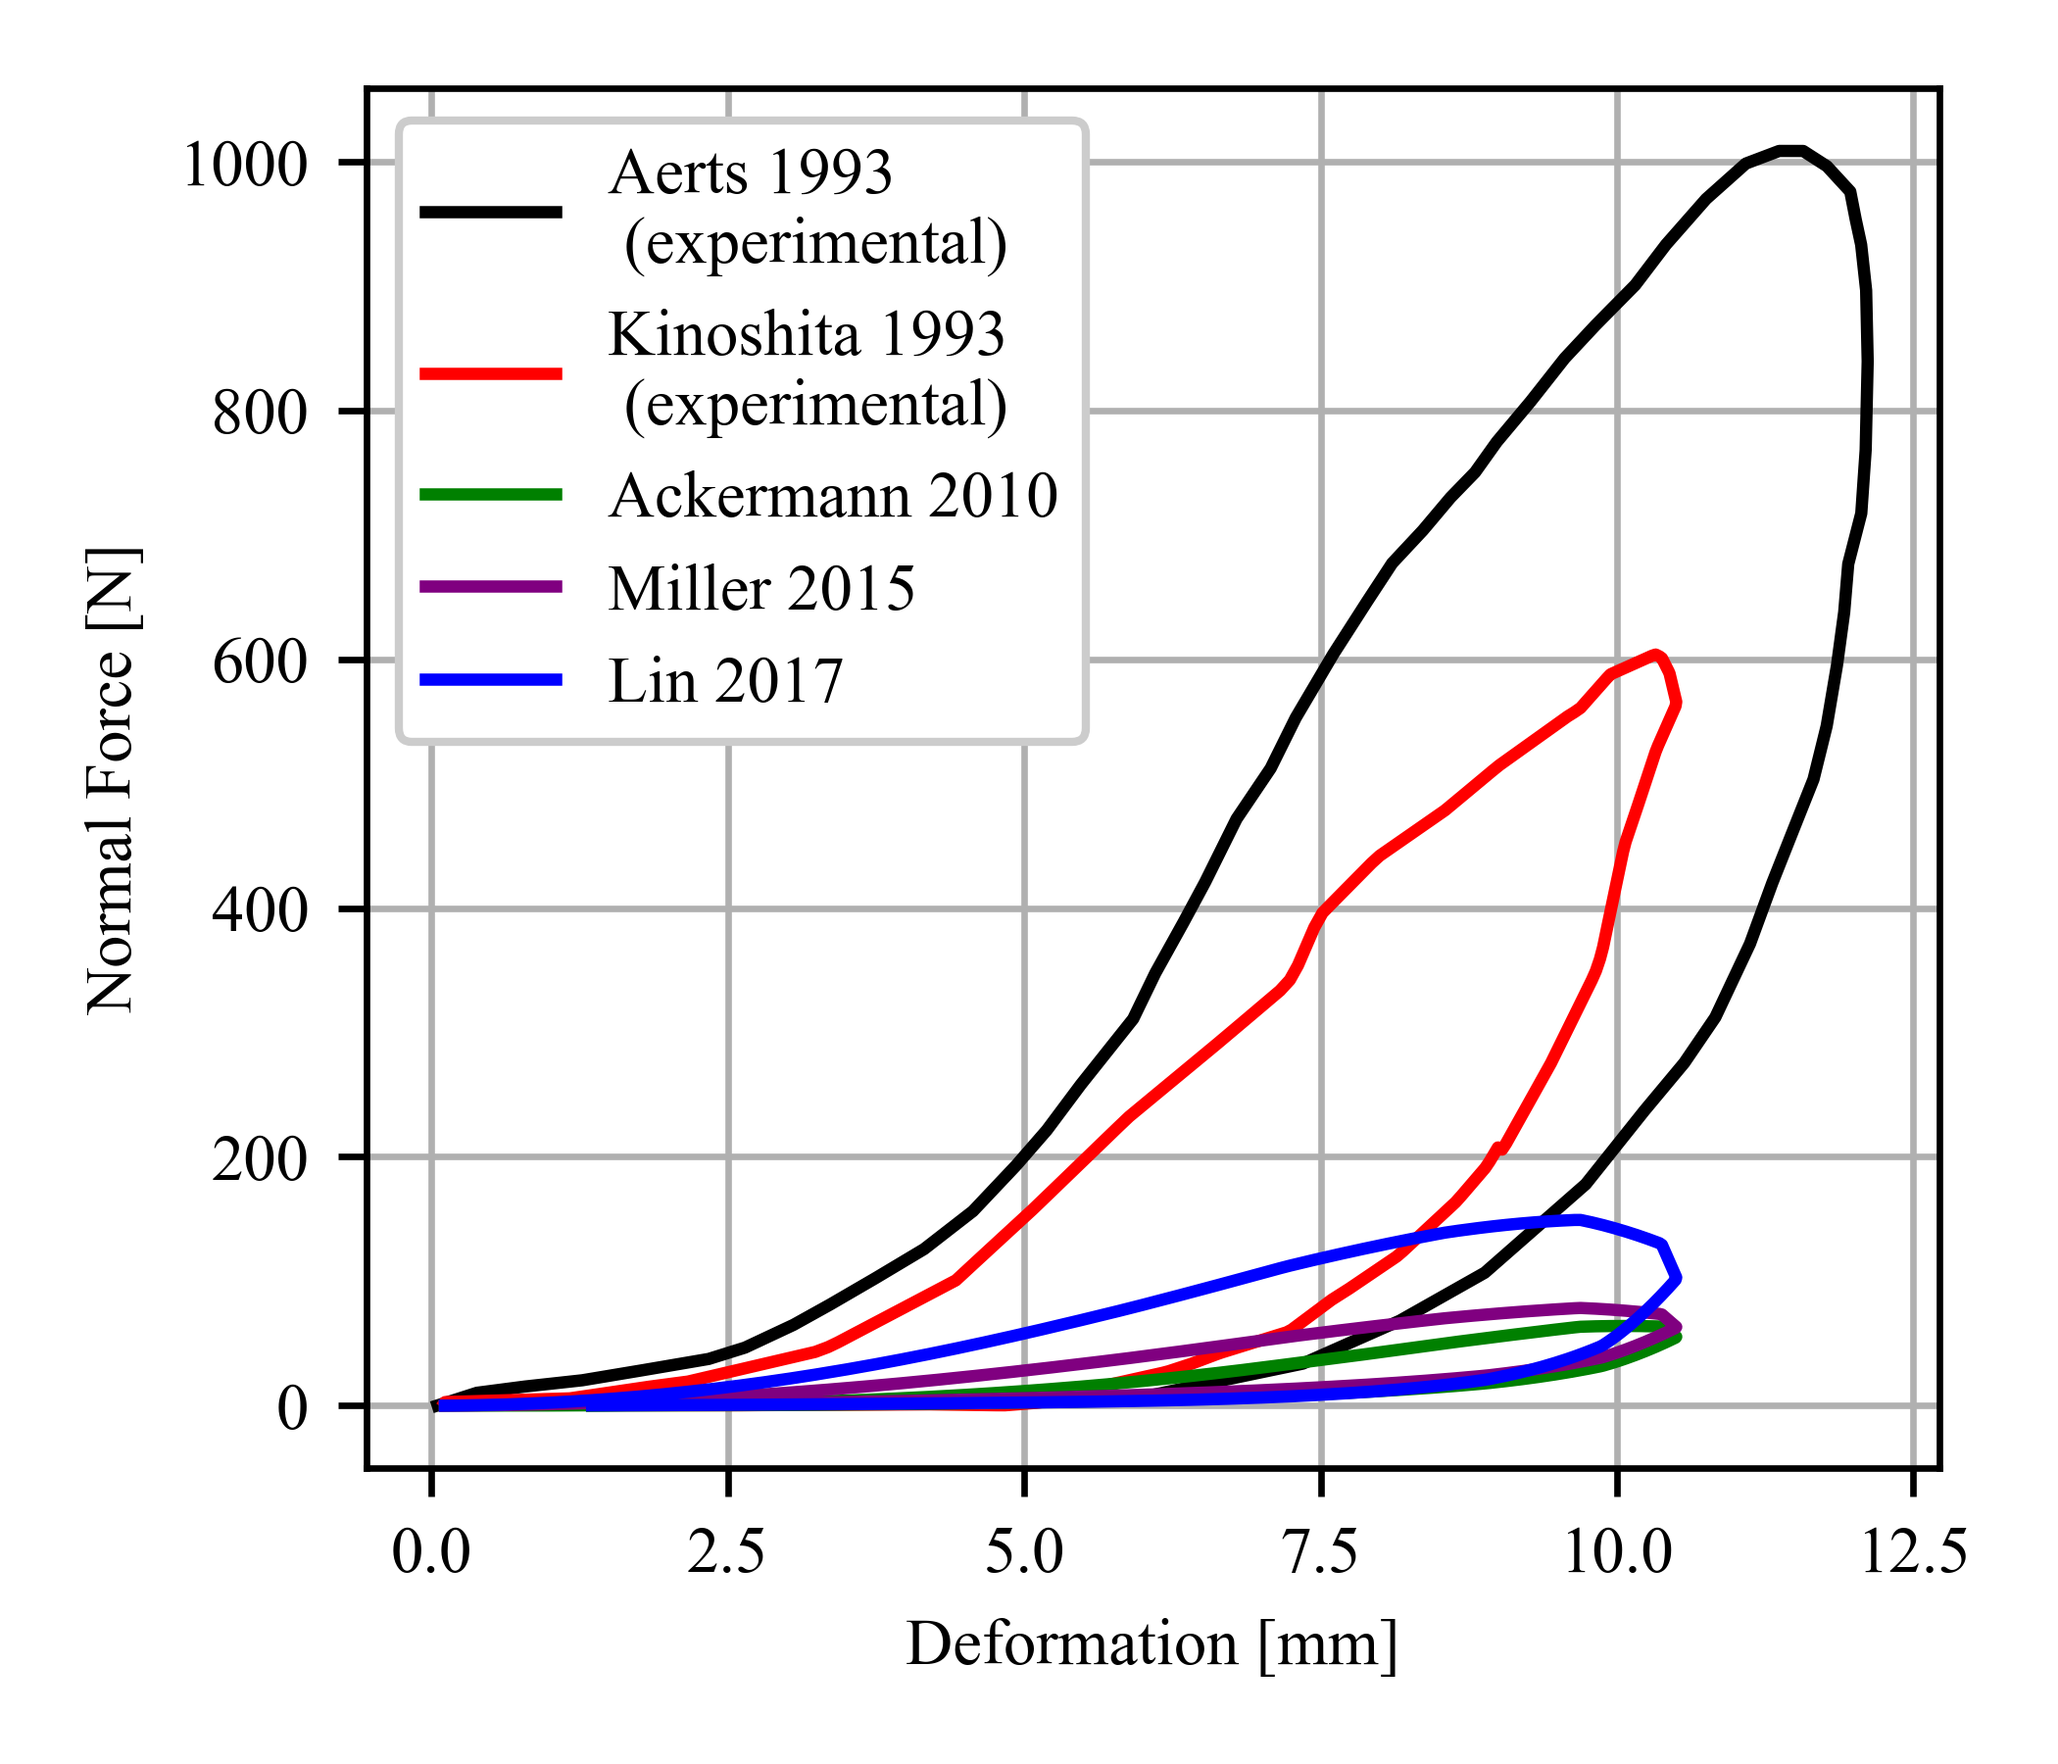
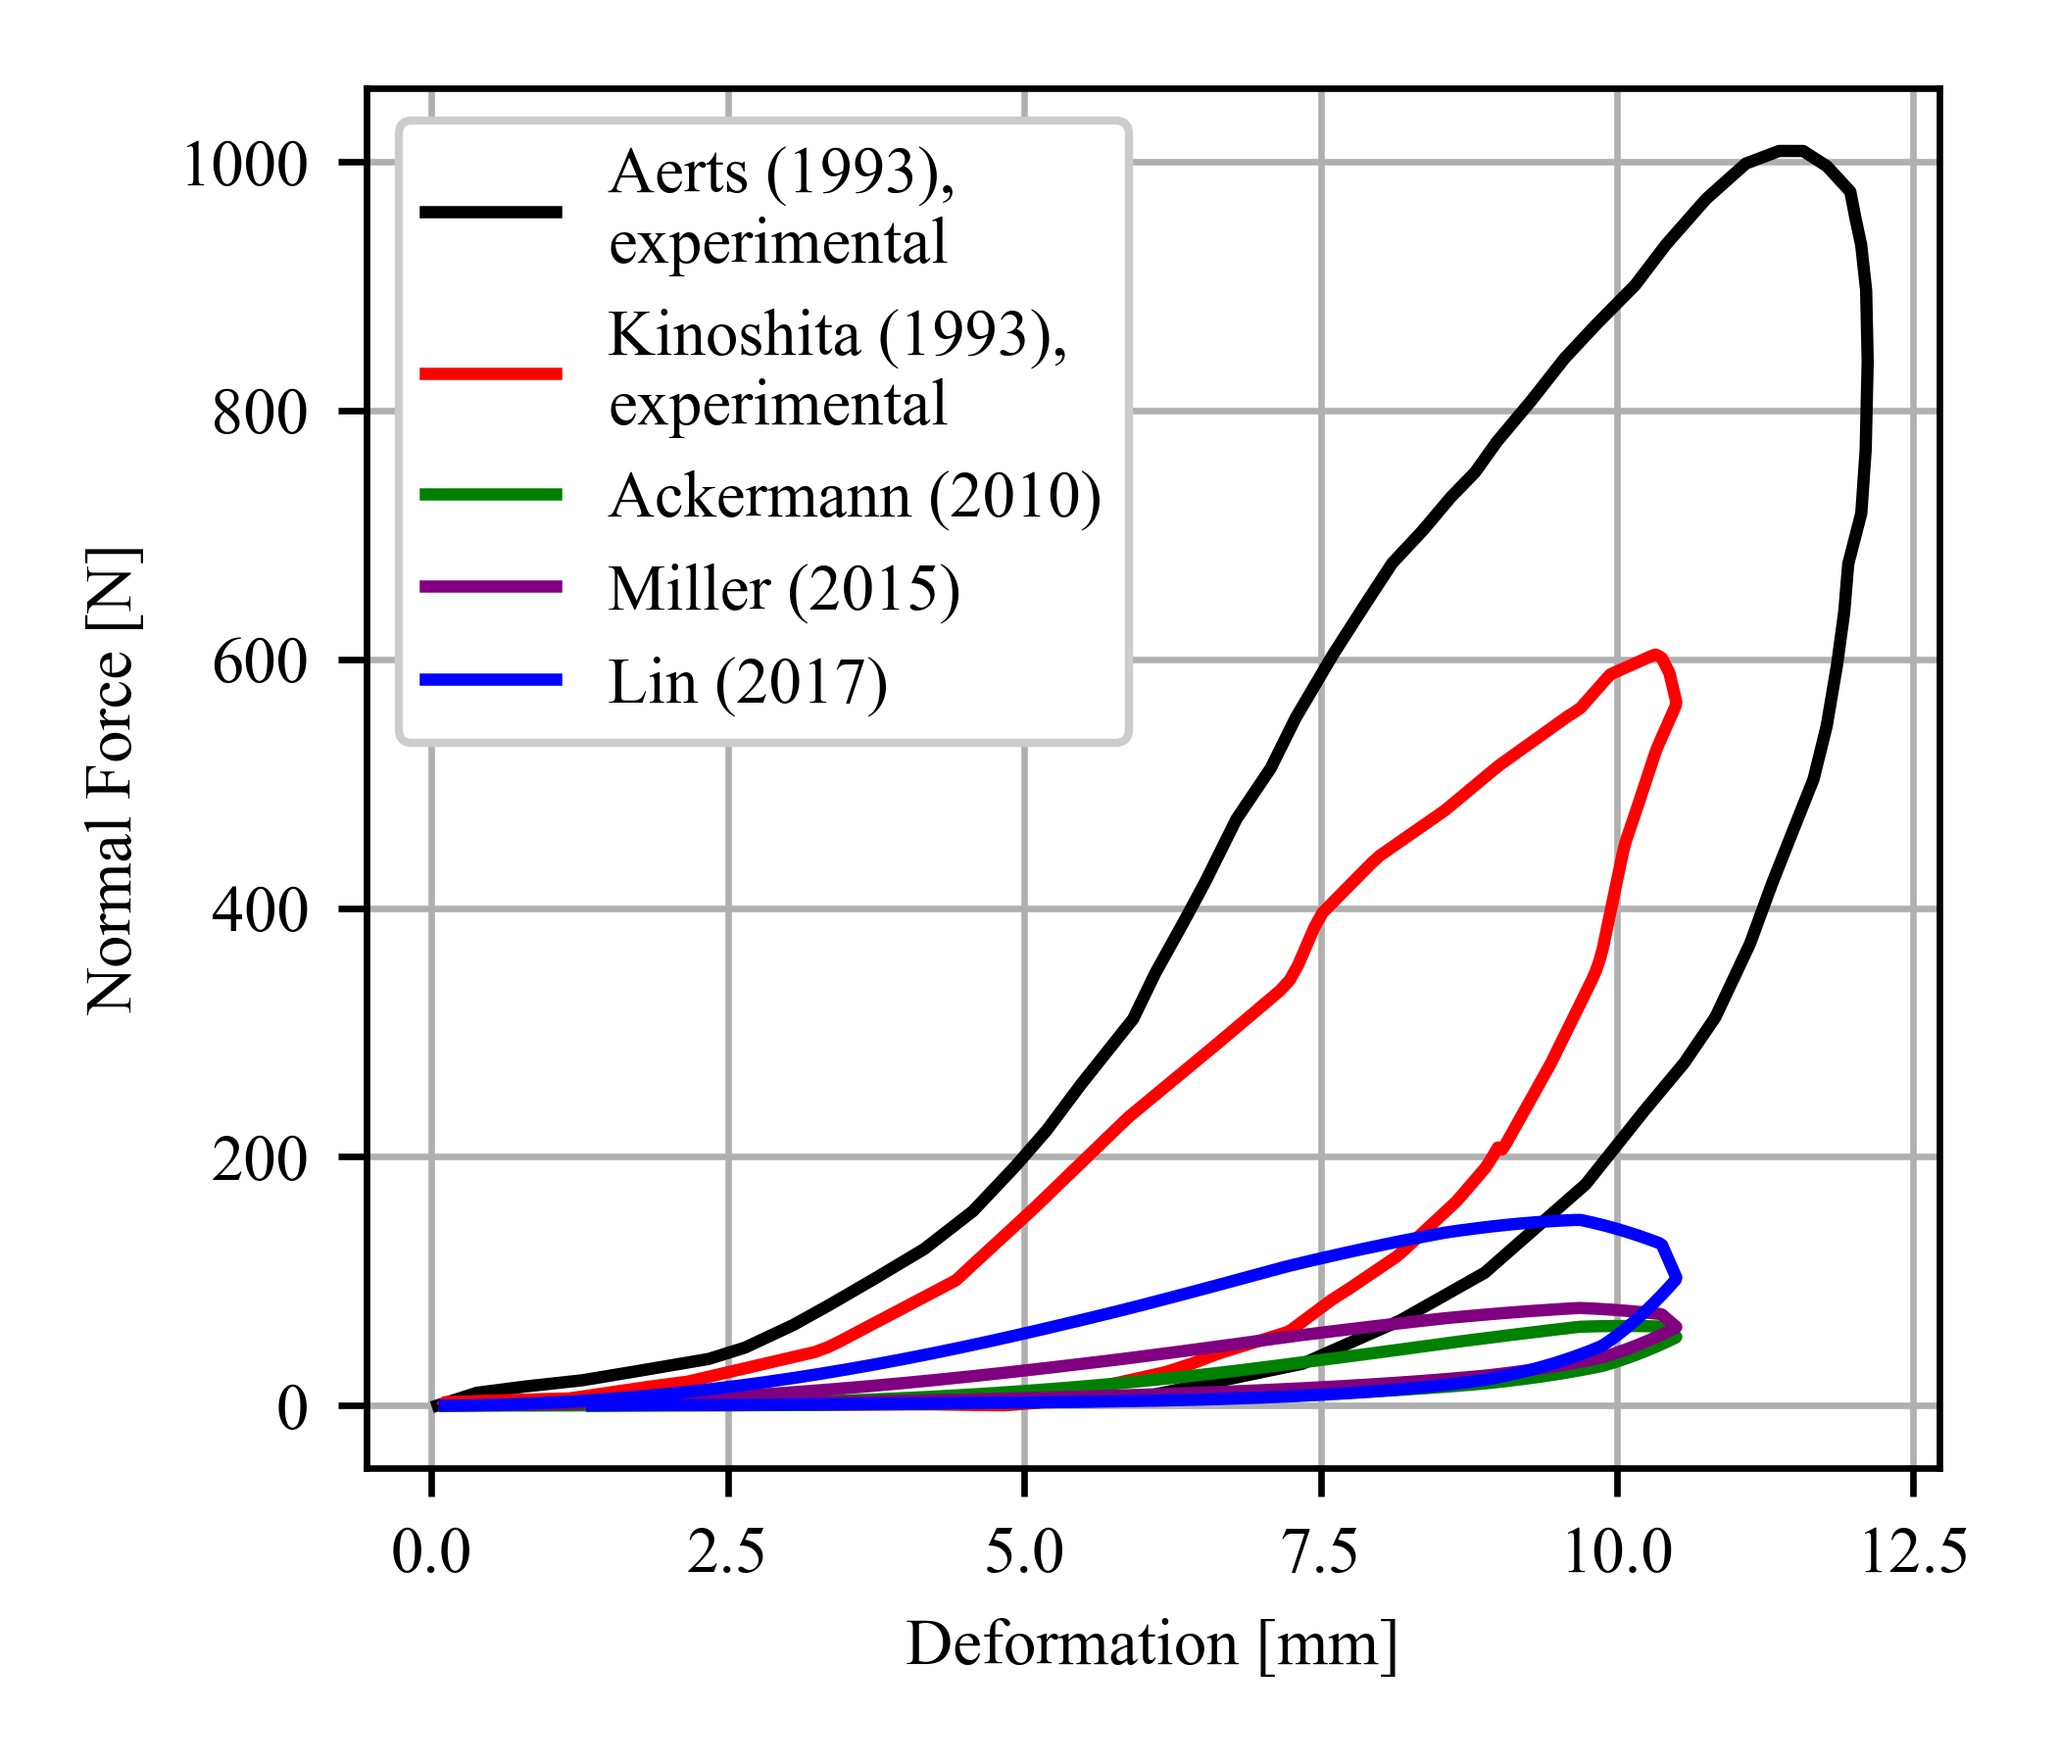
added exponent selection

Changed region(s): [[0.2786, 0.0622, 0.5571, 0.4356], [0.3714, 0.3111, 0.4643, 0.3422], [0.3405, 0.3733, 0.4333, 0.4044]]

diff --git a/exponent_fixed.py b/exponent_fixed.py
@@ -1,0 +1,112 @@
+import numpy as np
+import matplotlib.pyplot as plt
+from scipy.optimize import least_squares
+import utils
+from decimal import Decimal
+from scipy import integrate
+
+# Set the fixed here:
+global exp
+exp = 5
+
+# This data is from Kinoshita 1993, exported from
+# graphs using online digitizer
+# displacement.csv: time [ms], displacement [mm]. 
+# Is derived by the authors by integrating the acceleration
+# signal that follows
+# deceleration.csv: time [ms], deceleration [G]. 
+# Signal from accelerometer plced on pendulum impacting the heelpad
+
+x_data = np.genfromtxt('data/displacement.csv', delimiter='\t')  # ms , mm
+decel_data = np.genfromtxt('data/deceleration.csv', delimiter='\t')  # ms , G
+
+plt.rcParams['text.usetex'] = True
+# plt.rcParams['font.family'] = 'sans-serif'
+# plt.rcParams['font.sans-serif'] = 'DejaVu Sans'
+
+
+plt.rcParams['font.family'] = 'serif'
+plt.rcParams['font.sans-serif'] = 'Times'
+#plt.rcParams['font.size'] = 14
+
+# Converting to SI units
+x_data[:, 0] = x_data[:, 0] / 1000  # s
+x_data[:,1] = x_data[:, 1] / 1000  # m
+decel_data[:, 0] = decel_data[:, 0] / 1000  # s
+decel_data[:, 1] = decel_data[:, 1] * 9.81  # m/s^2
+
+# Interpolate data to get evenly spaced samples
+# We impose a 40 ms time window
+N = 400
+t = np.linspace(0, 0.04, N)
+x = np.interp(t, x_data[:, 0], x_data[:, 1])
+xddot = np.interp(t, decel_data[:,0], decel_data[:, 1])
+
+# For these data the initial impact veloicty is given in the paper as 0.93 m/s
+# Integrate xddot to get velocity
+# xddot is deceleration, thus the minus sign in the integration
+xdot_init = 0.93
+xdot = integrate.cumulative_trapezoid(-xddot, t, initial=0) + xdot_init
+
+# Normal force from the heel pad is calculated as the product
+# of pendulum mass (5 kg) and deceleration
+mass = 5 
+fN_truth = mass*xddot
+
+
+
+fig,  ax2 = plt.subplots()
+
+#SUBPLOT 2
+ax2.plot(x, fN_truth, label = 'Experimental', color = 'black')
+ax2.set_xlabel('Deformation [m]')
+ax2.set_ylabel('Force [N]')
+ax2.grid()
+ax2.set_title('b)')
+
+# Function to optimize
+def residuals(parms, x, xdot, fN_truth): 
+    X = np.append(parms,exp)
+    fN = utils.get_fn_falisse_smooth_3parms(X, x, xdot)
+    return (fN - fN_truth)
+
+# Initial guess
+x0 = np.array([1e5, 5])
+#Bounds
+E_lower = 1e1
+E_upper = 1e15
+c_lower = 0
+c_upper = 1e2
+
+bounds=([E_lower, c_lower], [E_upper, c_upper])
+res = least_squares(residuals, x0, args=(x, xdot, fN_truth), bounds=bounds)
+print(res)
+print('E = %f, c = %f, p = %f' % (res.x[0], res.x[1],exp))
+
+# rmse
+rmse = np.mean(res.fun**2)
+rmse = np.sqrt(rmse)
+
+
+
+print('RMSE: ', rmse)
+print('RMSE %(peak force): ', rmse/ max(fN_truth))
+
+fN = utils.get_fn_falisse_smooth_3parms([res.x[0], res.x[1],exp], x, xdot)
+
+Edec = Decimal(int(res.x[0]))
+Esci =  '{:.2E}'.format(Edec) 
+ax2.plot(x, fN, '-.',
+        label = 'Best fit K = %.2f $\mathrm{GPa m^{-3/2}}$, c = %.2f s/m, p = %.2f' % (res.x[0]/(1e9),res.x[1], exp),
+        # label = 'Best fit E =' + Esci + ' Pa, c = %.2f s/m' % res.x[1],
+
+        color = 'red', linestyle='-.')
+ax2.legend(loc='upper left')
+
+# fig.set_figwidth(3.58)
+# fig.set_figheight(6.)
+fig.tight_layout()
+# fig.set_facecolor('#DDEAF7')
+
+# plt.savefig('fig/fits.png',dpi=600)
+plt.show()

diff --git a/main.py b/main.py
@@ -95,7 +95,7 @@ c = 2
 fN = utils.get_fn_falisse_smooth([E, c], x, xdot)
 
 # Plot default vs. ground truth
-ax1.plot(x, fN_truth, label = 'Experimental', color = 'black')
+ax1.plot(x, fN_truth, label = 'Kinoshita (1993), experimental', color = 'black')
 ax1.set_ylabel('Force [N]')
 ax1.set_xlabel('Deformation [m]')
 ax1.set_title('a)')
@@ -115,6 +115,16 @@ bounds=([E_lower, c_lower], [E_upper, c_upper])
 res = least_squares(residuals, x0, args=(x, xdot, fN_truth), bounds=bounds)
 print(res)
 print('E = %f, c = %f' % (res.x[0], res.x[1]))
+
+# rmse
+rmse = np.mean(res.fun**2)
+rmse = np.sqrt(rmse)
+
+
+
+print('RMSE: ', rmse)
+print('RMSE %(peak force): ', rmse/ max(fN_truth))
+
 fN = utils.get_fn_falisse_smooth([res.x[0],res.x[1]],x,xdot)
 
 
@@ -134,7 +144,7 @@ ax1.grid()
 ax1.legend()
 
 #SUBPLOT 2
-ax2.plot(x, fN_truth, label = 'Experimental', color = 'black')
+ax2.plot(x, fN_truth, label = 'Kinoshita (1993), experimental', color = 'black')
 ax2.set_xlabel('Deformation [m]')
 ax2.set_ylabel('Force [N]')
 ax2.grid()
@@ -155,6 +165,16 @@ c_upper = 1e2
 bounds=([E_lower, c_lower], [E_upper, c_upper])
 res = least_squares(residuals, x0, args=(x, xdot, fN_truth), bounds=bounds)
 print(res)
+
+# rmse
+rmse = np.mean(res.fun**2)
+rmse = np.sqrt(rmse)
+
+
+
+print('RMSE: ', rmse)
+print('RMSE %(peak force): ', rmse/ max(fN_truth))
+
 print('E = %f, c = %f' % (res.x[0], res.x[1]))
 fN = utils.get_fn_custom_smooth([res.x[0], res.x[1]], x, xdot)
 
@@ -172,5 +192,5 @@ fig.set_figheight(6.)
 fig.tight_layout()
 # fig.set_facecolor('#DDEAF7')
 
-# plt.savefig('fig/fits.png',dpi=600)
+plt.savefig('fig/fits.png',dpi=600)
 plt.show()

diff --git a/data_comparison.py b/data_comparison.py
@@ -61,8 +61,8 @@ color = ['k','red','green','purple','blue']
 # switch to mm
 xplot = x*1000
 # In vivo (Aerts 1993), vi = 0.96 m/s
-plt.plot(data[:,0]*1000, data[:,1],label='Aerts 1993\n (experimental)',color=color[0])
-plt.plot(xplot,fN_kino,label ='Kinoshita 1993\n (experimental)',color=color[1])
+plt.plot(data[:,0]*1000, data[:,1],label='Aerts (1993),\nexperimental',color=color[0])
+plt.plot(xplot,fN_kino,label ='Kinoshita (1993),\nexperimental',color=color[1])
 
 
 
@@ -70,21 +70,21 @@ plt.plot(xplot,fN_kino,label ='Kinoshita 1993\n (experimental)',color=color[1])
 a = 5e7
 b = 1
 fN = utils.get_fn_ackermann([a,b],x,xdot)
-plt.plot(xplot,fN,label='Ackermann 2010',color=color[2])
+plt.plot(xplot,fN,label='Ackermann (2010)',color=color[2])
 
 
 # try miller 2015 a=6e5,b=1
 a = 6e5
 b = 1
 fN = utils.get_fn_miller([a,b],x,xdot)
-plt.plot(xplot,fN,label='Miller 2015',color=color[3])
+plt.plot(xplot,fN,label='Miller (2015)',color=color[3])
 
 
 # lin and pandy 2017 a=1e6,b=1.5
 a = 1e6
 b = 1.5
 fN = utils.get_fn_miller([a,b],x,xdot)
-plt.plot(xplot,fN,label='Lin 2017',color=color[4])
+plt.plot(xplot,fN,label='Lin (2017)',color=color[4])
 fsize = 8
 plt.legend(fontsize=fsize, framealpha=1)
 plt.yticks(fontsize=fsize)

diff --git a/exponent_free.py b/exponent_free.py
@@ -78,6 +78,16 @@ bounds=([E_lower, c_lower, p_lower], [E_upper, c_upper, p_upper])
 res = least_squares(residuals, x0, args=(x, xdot, fN_truth), bounds=bounds)
 print(res)
 print('E = %f, c = %f, p = %f' % (res.x[0], res.x[1], res.x[2]))
+
+# rmse
+rmse = np.mean(res.fun**2)
+rmse = np.sqrt(rmse)
+
+
+
+print('RMSE: ', rmse)
+print('RMSE %(peak force): ', rmse/ max(fN_truth))
+
 fN = utils.get_fn_falisse_smooth_3parms([res.x[0], res.x[1], res.x[2]], x, xdot)
 
 Edec = Decimal(int(res.x[0]))
